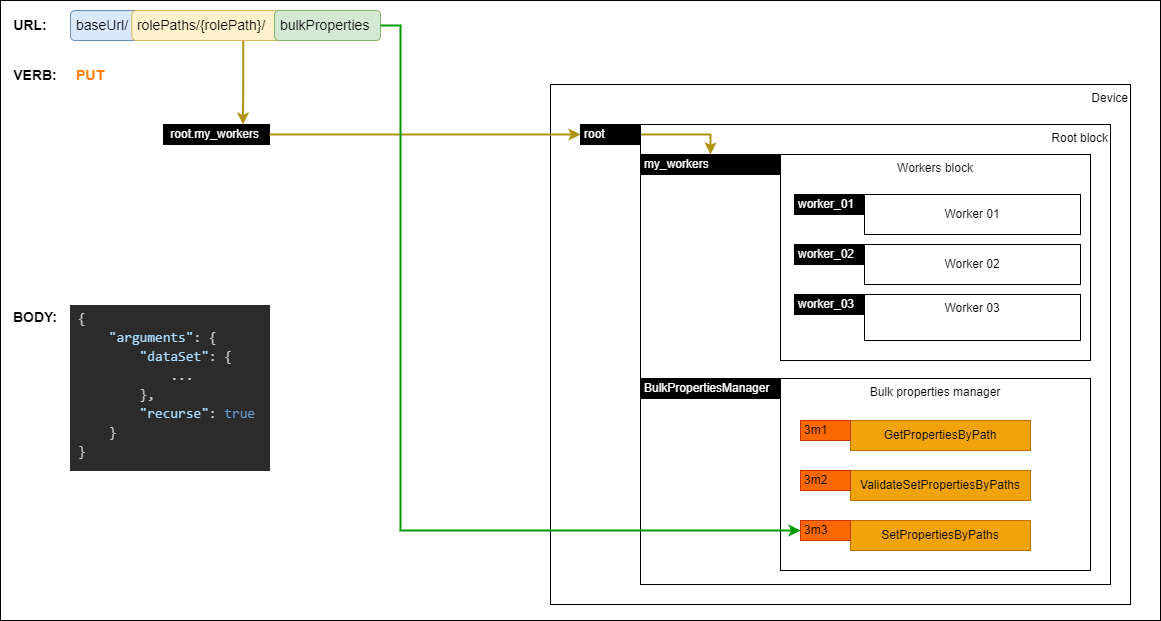
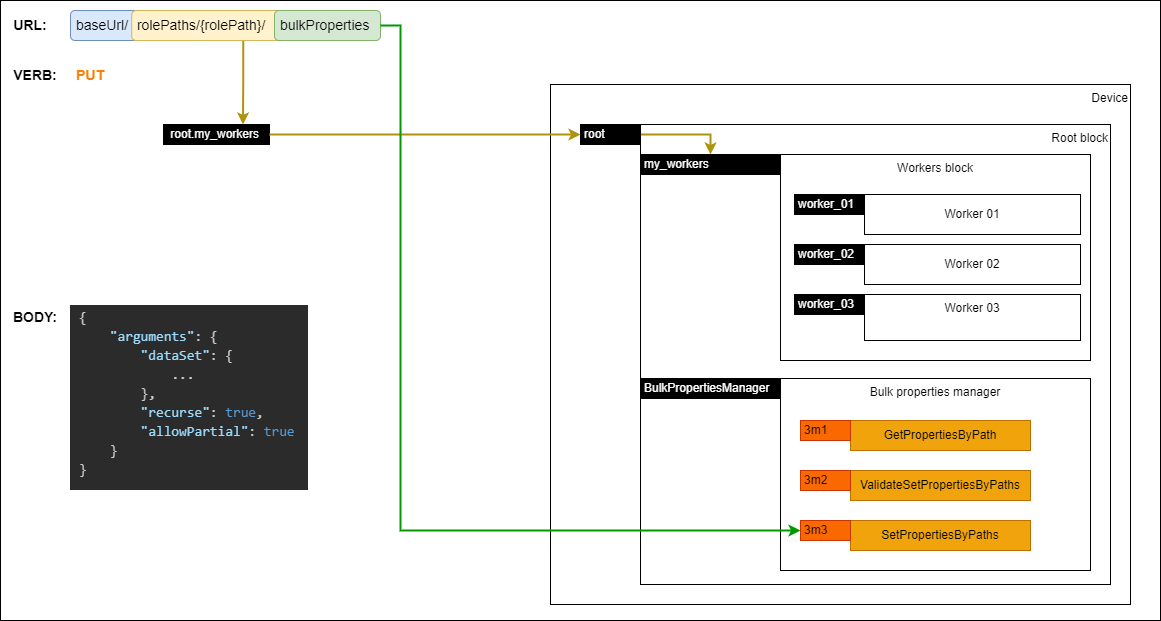
Update bulk setProperties body
references to include "allowPartial"

Changed region(s): [[0.062, 0.4895, 0.2791, 0.7955], [0.093, 0.5201, 0.186, 0.5813]]

diff --git a/docs/API requests.md b/docs/API requests.md
@@ -118,7 +118,8 @@ The body of the request MUST include an object which includes an `arguments` obj
         "dataSet": {
             ...
         },
-        "recurse": true
+        "recurse": true,
+        "allowPartial": true
     }
 }
 ```
